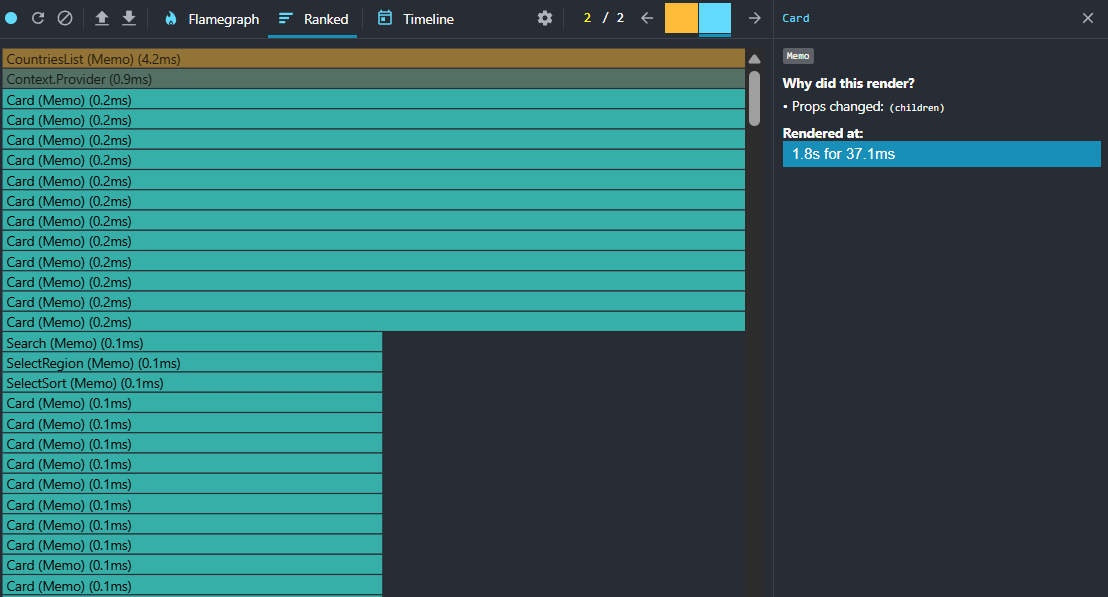
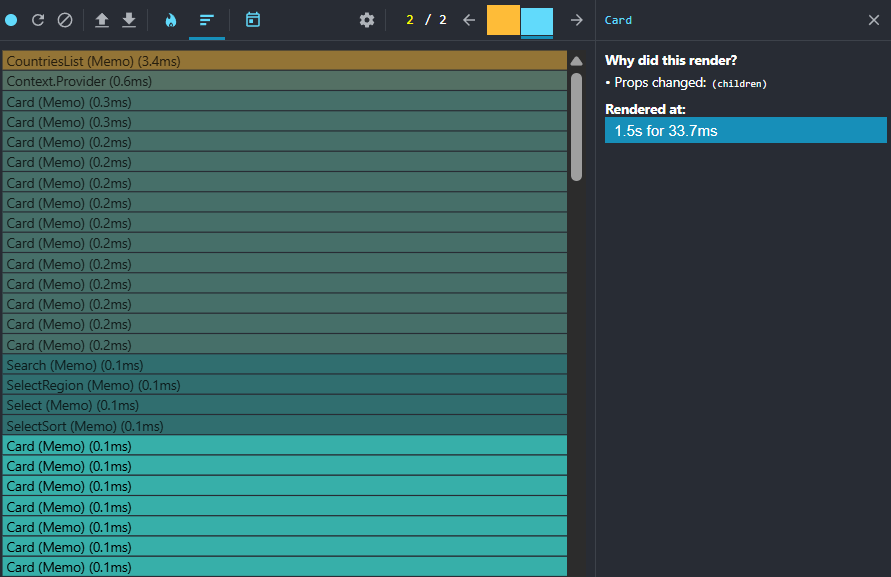
feat: upadete time render

diff --git a/src/shared/ui/select/select.tsx b/src/shared/ui/select/select.tsx
@@ -1,4 +1,4 @@
-import { FC, memo, useCallback, useEffect, useMemo, useState } from 'react';
+import { FC, memo, useEffect, useState } from 'react';
 import styles from './select.module.css';
 import { ISelectProps } from '@/shared/types';
 
@@ -22,35 +22,22 @@ export const Select: FC<ISelectProps> = memo(
       };
     }, [className]);
 
-    const handleSelect = useCallback(
-      (option: string) => {
-        setSelectedOption(option);
-        setShowOptions(false);
-        onChange(option);
-      },
-      [onChange]
-    );
+    const handleSelect = (option: string) => {
+      setSelectedOption(option);
+      setShowOptions(false);
+      onChange(option);
+    };
 
-    const handleClick = useCallback(() => {
-      setShowOptions(!showOptions);
-    }, [showOptions]);
-
-    const classNameSelect = useMemo(
-      () => [styles['custom-select'], className].join(' '),
-      [className]
-    );
-
-    const classNameSelectBox = useMemo(
-      () => [styles.options, showOptions ? styles.show : ''].join(' '),
-      [showOptions]
-    );
+    const handleClick = () => setShowOptions(!showOptions);
 
     return (
-      <div className={classNameSelect}>
+      <div className={[styles['custom-select'], className].join(' ')}>
         <div className={styles['select-box']} onClick={handleClick}>
           {selectedOption ? selectedOption : label}
         </div>
-        <div className={classNameSelectBox}>
+        <div
+          className={[styles.options, showOptions ? styles.show : ''].join(' ')}
+        >
           {' '}
           {options.map((option) => (
             <div

diff --git a/src/shared/ui/input/input.tsx b/src/shared/ui/input/input.tsx
@@ -1,26 +1,18 @@
-import { FC, memo, useCallback, useMemo } from 'react';
+import { FC, memo } from 'react';
 import { IInputProps } from '@/shared/types';
 import styles from './input.module.css';
 
 export const Input: FC<IInputProps> = memo(
   ({ name, onChange, onEnter, placeholder, type, value, className }) => {
-    const handleEnter = useCallback(
-      (e: React.KeyboardEvent<HTMLInputElement>) => {
-        if (e.key === 'Enter') {
-          onEnter();
-        }
-      },
-      [onEnter]
-    );
-
-    const classNameInput = useMemo(
-      () => [styles.input, className].join(' '),
-      [className]
-    );
+    const handleEnter = (e: React.KeyboardEvent<HTMLInputElement>) => {
+      if (e.key === 'Enter') {
+        onEnter();
+      }
+    };
 
     return (
       <input
-        className={classNameInput}
+        className={[styles.input, className].join(' ')}
         placeholder={placeholder}
         type={type}
         name={name}

diff --git a/src/widgets/countriesList/ui/countriesList.tsx b/src/widgets/countriesList/ui/countriesList.tsx
@@ -1,10 +1,9 @@
-import { FC, lazy, memo, Suspense, useContext, useMemo } from 'react';
+import { FC, memo, useContext, useMemo } from 'react';
 import { ICountriesProps } from '../model/countriesTypes';
 import { ChooseVisit } from '@/features';
-import { CountryContext, Loader } from '@/shared';
+import { CountryContext } from '@/shared';
 import styles from './countriesList.module.css';
-
-const Card = lazy(() => import('../../../entities/card/ui/card.tsx'));
+import { Card } from '@/entities';
 
 export const CountriesList: FC<ICountriesProps> = memo(({ data }) => {
   const { search, region, sort } = useContext(CountryContext);
@@ -49,14 +48,12 @@ export const CountriesList: FC<ICountriesProps> = memo(({ data }) => {
         <>
           {resultData.map((item) => (
             <div className={styles.content} key={item.name}>
-              <Suspense fallback={<Loader />}>
-                <Card data={item}>
-                  <span className={styles.visit}>
-                    <b>Visited:</b>{' '}
-                    <ChooseVisit name={item.name} className={styles.choose} />
-                  </span>
-                </Card>
-              </Suspense>
+              <Card data={item}>
+                <span className={styles.visit}>
+                  <b>Visited:</b>{' '}
+                  <ChooseVisit name={item.name} className={styles.choose} />
+                </span>
+              </Card>
             </div>
           ))}
         </>

diff --git a/src/shared/ui/button/button.tsx b/src/shared/ui/button/button.tsx
@@ -1,24 +1,18 @@
-import { FC, memo, useMemo } from 'react';
+import { FC, memo } from 'react';
 import { IButtonProps } from '@/shared/types';
 import styles from './button.module.css';
 
 export const Button: FC<IButtonProps> = memo(
   ({ onClick, text, className, classNameButton, disabled, children }) => {
-    const classNameButtonMemo = useMemo(
-      () =>
-        [
-          styles.button,
-          classNameButton === 'flat' ? styles.flat : styles.outline,
-          className,
-        ].join(' '),
-      [className, classNameButton]
-    );
-
     return (
       <button
         disabled={disabled}
         onClick={onClick}
-        className={classNameButtonMemo}
+        className={[
+          styles.button,
+          classNameButton === 'flat' ? styles.flat : styles.outline,
+          className,
+        ].join(' ')}
       >
         {text ? text : children}
       </button>

diff --git a/src/entities/card/ui/card.tsx b/src/entities/card/ui/card.tsx
@@ -1,4 +1,4 @@
-import { FC, memo, useCallback, useMemo, useState } from 'react';
+import { FC, memo, useState } from 'react';
 import { ICardProps } from '../model/cardTypes';
 import styles from './card.module.css';
 
@@ -9,14 +9,9 @@ const Card: FC<ICardProps> = memo(
   }) => {
     const [imgLoader, setImgLoader] = useState<boolean>(true);
 
-    const handleImageLoaded = useCallback(() => {
+    const handleImageLoaded = () => {
       setImgLoader(false);
-    }, []);
-
-    const classNameImg = useMemo(
-      () => [styles.image, imgLoader ? styles['img-loader'] : ''].join(' '),
-      [imgLoader]
-    );
+    };
 
     return (
       <div className={styles.card}>
@@ -25,7 +20,9 @@ const Card: FC<ICardProps> = memo(
           height={200}
           src={flag}
           alt={flagAlt}
-          className={classNameImg}
+          className={[styles.image, imgLoader ? styles['img-loader'] : ''].join(
+            ' '
+          )}
           onLoad={handleImageLoaded}
         />
         <div className={styles.description}>

diff --git a/README.md b/README.md
@@ -13,10 +13,10 @@
 
 ## After optimization (sort)
 
-- Component CountriesList rendering duration - 4.2ms
-- Context.Provider rendering duration - 0.9ms
+- Component CountriesList rendering duration - 3.4ms
+- Context.Provider rendering duration - 0.6ms
 - Components Card and Choose rendering from 0.1ms to 0.2ms
-- Total rendering duration - 37.1ms
+- Total rendering duration - 33.7ms
 
 ![after optimization flamegraph](./profiler/image-3.png)
 ![after optimization flamegraph CountriesList](./profiler/image-4.png)